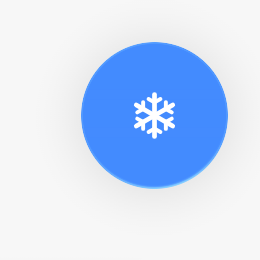
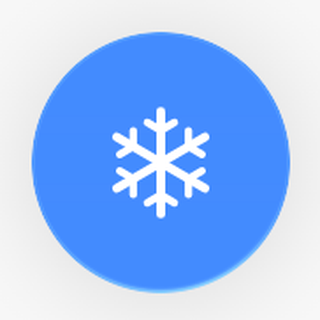
fix(ui): 放大冻结 FAB 的雪花图标到官方比例（R17 补充）
首版 24dp 图标框里只占 16dp（FAB 直径的 28%），比官方 24dp 图标（56dp FAB 的 43%）小一圈。几何整体放大到 R=11dp（描边含在内不越框），实测占 FAB 直径 37%，与官方图标内边距比例一致。

diff --git a/app/src/main/kotlin/com/ayang/glacier/ui/icons/SnowflakeIcon.kt b/app/src/main/kotlin/com/ayang/glacier/ui/icons/SnowflakeIcon.kt
@@ -23,65 +23,65 @@ val SnowflakeIcon: ImageVector by lazy {
         viewportWidth = 24f,
         viewportHeight = 24f,
     ).apply {
-        path(fill = null, stroke = mainColor, strokeLineWidth = 1.80f, strokeLineCap = StrokeCap.Round) {
-            moveTo(12.00f, 4.00f)
-            lineTo(12.00f, 20.00f)
+        path(fill = null, stroke = mainColor, strokeLineWidth = 1.90f, strokeLineCap = StrokeCap.Round) {
+            moveTo(12.00f, 1.00f)
+            lineTo(12.00f, 23.00f)
         }
-        path(fill = null, stroke = mainColor, strokeLineWidth = 1.80f, strokeLineCap = StrokeCap.Round) {
-            moveTo(5.07f, 8.00f)
-            lineTo(18.93f, 16.00f)
+        path(fill = null, stroke = mainColor, strokeLineWidth = 1.90f, strokeLineCap = StrokeCap.Round) {
+            moveTo(2.47f, 6.50f)
+            lineTo(21.53f, 17.50f)
         }
-        path(fill = null, stroke = mainColor, strokeLineWidth = 1.80f, strokeLineCap = StrokeCap.Round) {
-            moveTo(18.93f, 8.00f)
-            lineTo(5.07f, 16.00f)
+        path(fill = null, stroke = mainColor, strokeLineWidth = 1.90f, strokeLineCap = StrokeCap.Round) {
+            moveTo(21.53f, 6.50f)
+            lineTo(2.47f, 17.50f)
         }
-        path(fill = null, stroke = mainColor, strokeLineWidth = 1.50f, strokeLineCap = StrokeCap.Round) {
-            moveTo(12.00f, 17.00f)
-            lineTo(9.75f, 18.30f)
+        path(fill = null, stroke = mainColor, strokeLineWidth = 1.60f, strokeLineCap = StrokeCap.Round) {
+            moveTo(12.00f, 18.90f)
+            lineTo(9.06f, 20.60f)
         }
-        path(fill = null, stroke = mainColor, strokeLineWidth = 1.50f, strokeLineCap = StrokeCap.Round) {
-            moveTo(12.00f, 17.00f)
-            lineTo(14.25f, 18.30f)
+        path(fill = null, stroke = mainColor, strokeLineWidth = 1.60f, strokeLineCap = StrokeCap.Round) {
+            moveTo(12.00f, 18.90f)
+            lineTo(14.94f, 20.60f)
         }
-        path(fill = null, stroke = mainColor, strokeLineWidth = 1.50f, strokeLineCap = StrokeCap.Round) {
-            moveTo(16.33f, 14.50f)
-            lineTo(16.33f, 17.10f)
+        path(fill = null, stroke = mainColor, strokeLineWidth = 1.60f, strokeLineCap = StrokeCap.Round) {
+            moveTo(17.98f, 15.45f)
+            lineTo(17.98f, 18.85f)
         }
-        path(fill = null, stroke = mainColor, strokeLineWidth = 1.50f, strokeLineCap = StrokeCap.Round) {
-            moveTo(16.33f, 14.50f)
-            lineTo(18.58f, 13.20f)
+        path(fill = null, stroke = mainColor, strokeLineWidth = 1.60f, strokeLineCap = StrokeCap.Round) {
+            moveTo(17.98f, 15.45f)
+            lineTo(20.92f, 13.75f)
         }
-        path(fill = null, stroke = mainColor, strokeLineWidth = 1.50f, strokeLineCap = StrokeCap.Round) {
-            moveTo(16.33f, 9.50f)
-            lineTo(18.58f, 10.80f)
+        path(fill = null, stroke = mainColor, strokeLineWidth = 1.60f, strokeLineCap = StrokeCap.Round) {
+            moveTo(17.98f, 8.55f)
+            lineTo(20.92f, 10.25f)
         }
-        path(fill = null, stroke = mainColor, strokeLineWidth = 1.50f, strokeLineCap = StrokeCap.Round) {
-            moveTo(16.33f, 9.50f)
-            lineTo(16.33f, 6.90f)
+        path(fill = null, stroke = mainColor, strokeLineWidth = 1.60f, strokeLineCap = StrokeCap.Round) {
+            moveTo(17.98f, 8.55f)
+            lineTo(17.98f, 5.15f)
         }
-        path(fill = null, stroke = mainColor, strokeLineWidth = 1.50f, strokeLineCap = StrokeCap.Round) {
-            moveTo(12.00f, 7.00f)
-            lineTo(14.25f, 5.70f)
+        path(fill = null, stroke = mainColor, strokeLineWidth = 1.60f, strokeLineCap = StrokeCap.Round) {
+            moveTo(12.00f, 5.10f)
+            lineTo(14.94f, 3.40f)
         }
-        path(fill = null, stroke = mainColor, strokeLineWidth = 1.50f, strokeLineCap = StrokeCap.Round) {
-            moveTo(12.00f, 7.00f)
-            lineTo(9.75f, 5.70f)
+        path(fill = null, stroke = mainColor, strokeLineWidth = 1.60f, strokeLineCap = StrokeCap.Round) {
+            moveTo(12.00f, 5.10f)
+            lineTo(9.06f, 3.40f)
         }
-        path(fill = null, stroke = mainColor, strokeLineWidth = 1.50f, strokeLineCap = StrokeCap.Round) {
-            moveTo(7.67f, 9.50f)
-            lineTo(7.67f, 6.90f)
+        path(fill = null, stroke = mainColor, strokeLineWidth = 1.60f, strokeLineCap = StrokeCap.Round) {
+            moveTo(6.02f, 8.55f)
+            lineTo(6.02f, 5.15f)
         }
-        path(fill = null, stroke = mainColor, strokeLineWidth = 1.50f, strokeLineCap = StrokeCap.Round) {
-            moveTo(7.67f, 9.50f)
-            lineTo(5.42f, 10.80f)
+        path(fill = null, stroke = mainColor, strokeLineWidth = 1.60f, strokeLineCap = StrokeCap.Round) {
+            moveTo(6.02f, 8.55f)
+            lineTo(3.08f, 10.25f)
         }
-        path(fill = null, stroke = mainColor, strokeLineWidth = 1.50f, strokeLineCap = StrokeCap.Round) {
-            moveTo(7.67f, 14.50f)
-            lineTo(5.42f, 13.20f)
+        path(fill = null, stroke = mainColor, strokeLineWidth = 1.60f, strokeLineCap = StrokeCap.Round) {
+            moveTo(6.02f, 15.45f)
+            lineTo(3.08f, 13.75f)
         }
-        path(fill = null, stroke = mainColor, strokeLineWidth = 1.50f, strokeLineCap = StrokeCap.Round) {
-            moveTo(7.67f, 14.50f)
-            lineTo(7.67f, 17.10f)
+        path(fill = null, stroke = mainColor, strokeLineWidth = 1.60f, strokeLineCap = StrokeCap.Round) {
+            moveTo(6.02f, 15.45f)
+            lineTo(6.02f, 18.85f)
         }
     }.build()
 }

diff --git a/docs/audit/miuix-os4-r17-audit.md b/docs/audit/miuix-os4-r17-audit.md
@@ -7,8 +7,14 @@
 所以新增了一个 24dp 画布的 `ImageVector`：`ui/icons/SnowflakeIcon.kt`。
 
 几何与品牌图标同一套规则：3 条主轴（竖直 + 两条 30° 对角线）+ 6 条臂各一对 60° 分叉，
-全部按同一半径/角度生成；用 1.8dp / 1.5dp 圆头描边（官方 Glass 图标的观感），
+全部按同一半径/角度生成；用 1.9dp / 1.6dp 圆头描边（官方 Glass 图标的观感），
 放进 `GlassFloatingActionButton` 后由组件按内容色着色。
+
+**尺寸**：第一版按"安全留白"只做到 `R = 8dp`（24dp 图标框里只占 16dp），
+实测雪花只占 FAB 直径的 **28%**——官方 example 的 FAB 图标是 24dp 直接放进去
+（`AppContent.kt:890-894`，不额外加 size），占 56dp 直径的 43%，明显比它小一圈。
+现已放大到 `R = 11dp`（描边半径算进去后正好落在 24dp 框内），雪花占 FAB 直径 **37%**，
+与官方图标（24dp 框内通常留 2dp 内边距 → 约 36%）持平。
 
 ## 2. 设置页重排
 

diff --git a/docs/verification/miuix-os4-r17/README.md b/docs/verification/miuix-os4-r17/README.md
@@ -11,7 +11,8 @@
 | `03-settings-search-page.png` | 搜索二级页 |
 | `04-settings-automation-page.png` | 自动化二级页（自动冻结关闭时依赖项收起） |
 | `05-settings-system-page.png` | 系统二级页：通知使用权 / 使用情况访问权 / 设备所有者命令 |
-| `06-home-fab-snowflake.png` | 主页冻结 FAB 的雪花图标特写 |
+| `06-home-fab-snowflake.png` | 主页冻结 FAB 的雪花图标特写（放大后占 FAB 直径 37%，与官方 24dp 图标比例一致） |
+| `07-home-fab-before.png` | 放大前的同一位置（雪花只占 FAB 直径 28%，明显偏小） |
 
 ## 说明
 
